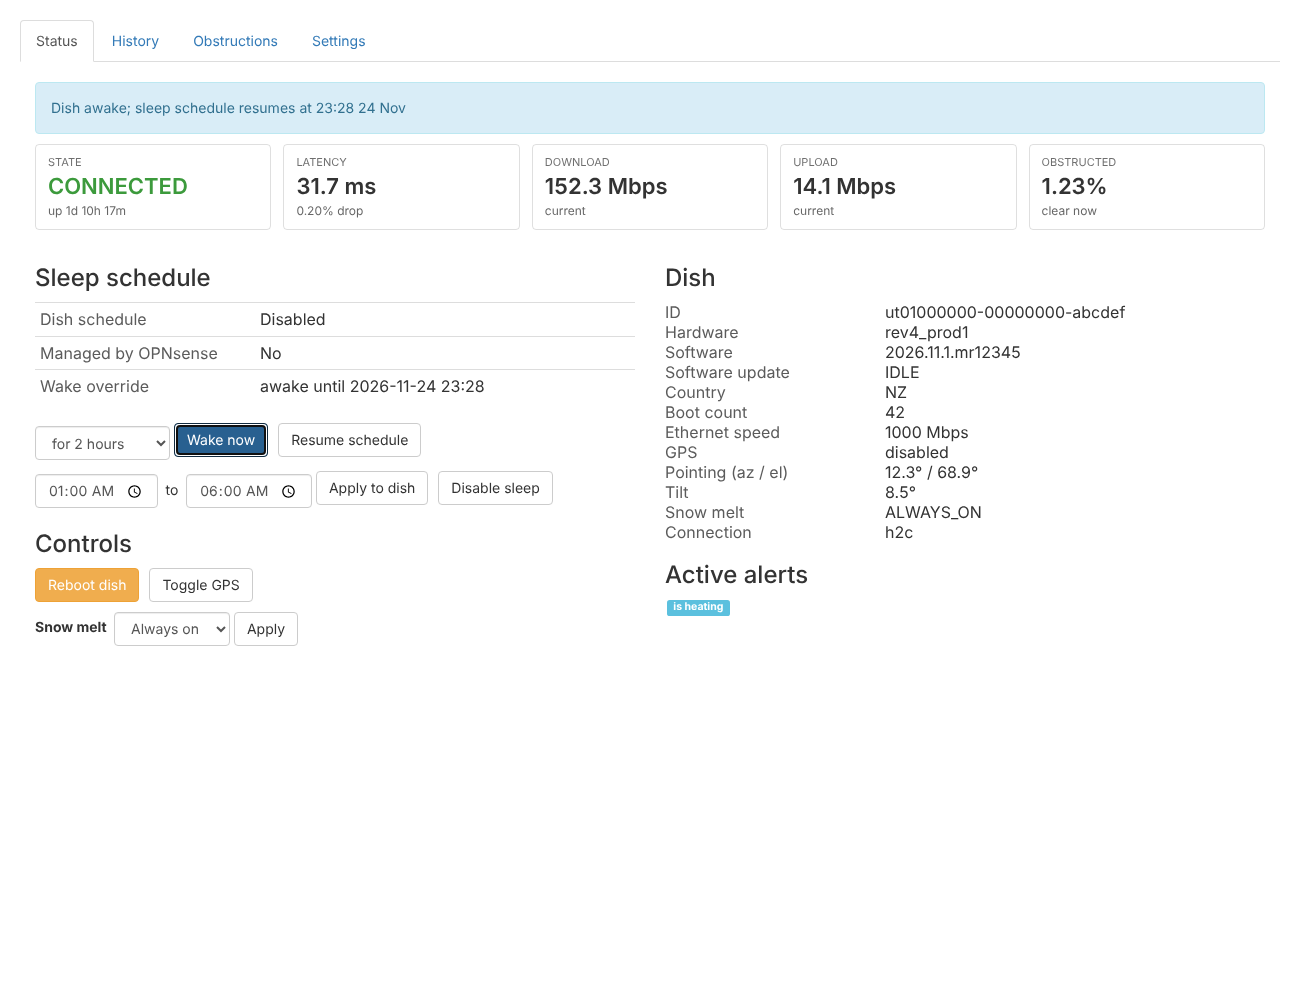
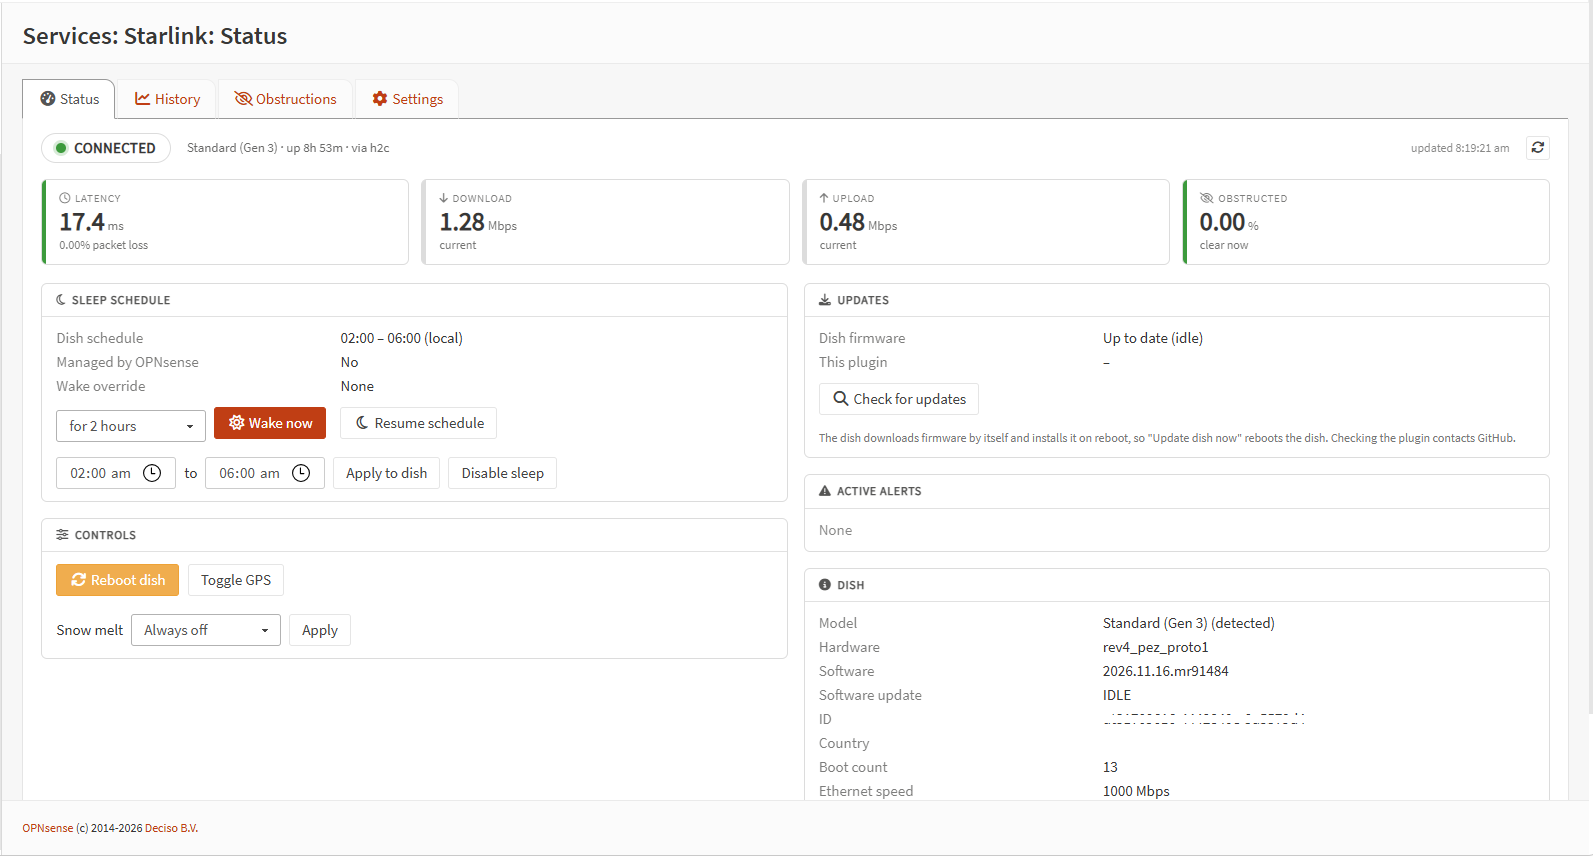
Readme updates and add images

diff --git a/net/starlink/src/opnsense/scripts/starlink/dish.py b/net/starlink/src/opnsense/scripts/starlink/dish.py
@@ -223,12 +223,17 @@ def _angle_diff(a, b):
     return (a - b + 180) % 360 - 180
 
 
+def _compass(az):
+    """Azimuth as a compass bearing 0..360 (the dish can report negative angles such as -173.9)."""
+    return None if az is None else az % 360
+
+
 def alignment_info(st):
     """Current vs desired dish pointing. The quality bands are this plugin's own heuristic, not SpaceX's."""
     align = st.get('alignment_stats') or {}
-    az = align.get('boresight_azimuth_deg', st.get('boresight_azimuth_deg'))
+    az = _compass(align.get('boresight_azimuth_deg', st.get('boresight_azimuth_deg')))
     el = align.get('boresight_elevation_deg', st.get('boresight_elevation_deg'))
-    d_az = align.get('desired_boresight_azimuth_deg')
+    d_az = _compass(align.get('desired_boresight_azimuth_deg'))
     d_el = align.get('desired_boresight_elevation_deg')
     if d_az is None or d_el is None or (d_az == 0 and d_el == 0):
         d_az = d_el = None   # the dish did not report a target (zero is the unset default)
@@ -353,7 +358,7 @@ def cmd_status(cfg, dish, _args):
         'stow_requested': bool(st.get('stow_requested')),
         'has_actuators': st.get('has_actuators') or align.get('has_actuators'),
         'tilt_angle_deg': _r(align.get('tilt_angle_deg')),
-        'azimuth_deg': _r(align.get('boresight_azimuth_deg', st.get('boresight_azimuth_deg'))),
+        'azimuth_deg': _r(_compass(align.get('boresight_azimuth_deg', st.get('boresight_azimuth_deg')))),
         'elevation_deg': _r(align.get('boresight_elevation_deg', st.get('boresight_elevation_deg'))),
         'software_update_state': st.get('software_update_state'),
         'update': update_info(st),

diff --git a/tests/test_backend.py b/tests/test_backend.py
@@ -109,6 +109,13 @@ class Alignment(unittest.TestCase):
         self.assertEqual(a['azimuth_error_deg'], -2.0)
         self.assertEqual(a['quality'], 'good')
 
+    def test_negative_azimuth_is_shown_as_compass_bearing(self):
+        a = dish.alignment_info(self._st(-173.9, 68.7, 180.0, 65.1))
+        self.assertEqual(a['azimuth_deg'], 186.1)
+        self.assertEqual(a['desired_azimuth_deg'], 180.0)
+        self.assertEqual(a['azimuth_error_deg'], 6.1)   # unchanged by the display fix: still wraps correctly
+        self.assertEqual(a['quality'], 'poor')
+
     def test_quality_bands(self):
         self.assertEqual(dish.alignment_info(self._st(100, 60, 100, 63))['quality'], 'fair')
         self.assertEqual(dish.alignment_info(self._st(100, 60, 110, 60))['quality'], 'poor')

diff --git a/README.md b/README.md
@@ -2,10 +2,6 @@
 
 An OPNsense plugin to monitor and control a SpaceX Starlink dish from the web UI.
 
-> Unofficial project, not affiliated with SpaceX, Starlink or Deciso.
-> **Status: beta (0.9).** It has been tested against a simulated dish.
-> Reports from real dishes are very welcome.
-
 ![Status page](docs/status.png)
 
 ## Features
@@ -22,20 +18,27 @@ An OPNsense plugin to monitor and control a SpaceX Starlink dish from the web UI
 - **Updates:** shows when the dish has a firmware update ready (Update now reboots it to install) and, on request, whether a newer plugin version is on GitHub.
 - **Dish model:** detected from the dish, or chosen in Settings. Controls a model does not have are hidden.
 - **History:** latency, loss, throughput and power draw for up to 12 hours, plus outages.
-- **Obstruction map** and a **dashboard widget**.
+- **Obstruction map** with an alignment readout, and **dashboard widgets**.
 - **No extra packages:** it talks to the dish's local gRPC API using only the Python that
   ships with OPNsense.
 
-## Requirements
+## Screenshots
 
-OPNsense must be able to reach the dish at `192.168.100.1`. With your own router (Starlink
-router in bypass mode), add a virtual IP on the WAN:
+### History
 
-1. **Interfaces → Virtual IPs → Settings → +**
-2. Mode **IP Alias**, Interface **WAN**, Address **192.168.100.2/24**. Save, then Apply.
+Latency, packet loss and throughput charts with hover values and min / average / max.
 
-To use the Starlink phone app from your LAN as well, also add a hybrid outbound NAT rule:
-WAN, source LAN net, destination `192.168.100.1/32`, translation `192.168.100.2`.
+![History tab](docs/history.png)
+
+### Obstructions and alignment
+
+A polar sky map, alignment of the dish against its target, and obstruction by direction.
+
+![Obstructions tab](docs/obstructions.png)
+
+### Settings
+
+![Settings tab](docs/settings.png)
 
 ## Install
 
@@ -60,85 +63,6 @@ Remove **os-starlink** under System → Firmware → Plugins. Then, to drop the 
 rm /usr/local/etc/pkg/repos/starlink.conf
 rm -r /usr/local/etc/pkg/fingerprints/starlink
 ```
-
-## Troubleshooting
-
-```sh
-configctl starlink status                         # what the UI sees
-/usr/local/opnsense/scripts/starlink/dish.py status   # same, shows Python errors
-ping 192.168.100.1                                # is the dish reachable?
-```
-
-If **Services → Starlink** is missing after an install or update, log out and back in and press Ctrl+F5. The installer clears the web UI caches and restarts the web server for you; if it still does not show:
-
-```sh
-rm -f /tmp/opnsense_menu_cache.xml /tmp/opnsense_acl_cache.json /var/lib/php/tmp/opnsense_menu_cache.xml /var/lib/php/tmp/opnsense_acl_cache.json
-configctl webgui restart
-```
-
-When opening an issue, include the output of the first two commands, your OPNsense
-version and your dish model.
-
----
-
-## Maintainer guide
-
-### Layout
-
-```
-net/starlink/            the plugin, in opnsense/plugins format (drop-in for an upstream PR)
-  Makefile               version, maintainer, PLUGIN_NO_ABI (one package for every FreeBSD/arch)
-  +POST_INSTALL.post     registers the cron job after install
-  src/...                files installed under /usr/local
-ci/check.sh              static checks and unit tests (Linux)
-ci/build-freebsd.sh      builds the .pkg with the official plugins build system and signs the repo
-ci/make-site.sh          builds the GitHub Pages site (repo, setup.sh, index.html)
-tests/test_backend.py    unit tests for the protobuf/HTTP2/HPACK client
-tools/gen_schema.py      regenerates starlink_proto.py from the Starlink .proto files
-tools/make-signing-key.sh  creates the repository signing key
-tools/install-manual.sh  copy-install without packages (development)
-```
-
-### One-time setup
-
-1. **Signing key.** On your own computer, outside this repo, run:
-   ```sh
-   sh tools/make-signing-key.sh ~/os-starlink-signing
-   ```
-   Add the printed one-line value as a repository secret named **`REPO_SIGNING_KEY_B64`**
-   (Settings → Secrets and variables → Actions). Back up `repo.key`. Without the secret the
-   repository is published unsigned.
-2. **GitHub Pages.** Settings → Pages → Source: **GitHub Actions**.
-3. **Maintainer.** Set `PLUGIN_MAINTAINER` in `net/starlink/Makefile` to your email.
-
-### Releasing
-
-1. Bump `PLUGIN_VERSION` in `net/starlink/Makefile` and put the same number in `net/starlink/src/opnsense/scripts/starlink/VERSION` (the in-app update check reads it; CI fails if they differ), for example `1.0`, and commit.
-2. Tag and push:
-   ```sh
-   git tag v1.0 && git push origin main v1.0
-   ```
-3. The **build** workflow checks the code, builds `os-starlink-1.0.pkg` in a FreeBSD VM,
-   signs the repository and publishes it to GitHub Pages. Firewalls see the update on their
-   next update check.
-
-The tag must match the Makefile version. Every push to `main` builds the package as a
-downloadable workflow artifact without publishing. **Run workflow** (manual dispatch)
-publishes the current `main`.
-
-### When SpaceX changes the API
-
-```sh
-pip install grpcio-tools hpack
-git clone --depth 1 https://github.com/Eitol/starlink-client /tmp/sc
-python3 tools/gen_schema.py /tmp/sc/proto net/starlink/src/opnsense/scripts/starlink/starlink_proto.py
-python3 tests/test_backend.py
-```
-
-### Upstreaming
-
-`net/starlink` follows the opnsense/plugins layout, so it can be submitted to
-https://github.com/opnsense/plugins as a pull request once it has been tested more widely.
 
 ## Licence
 
